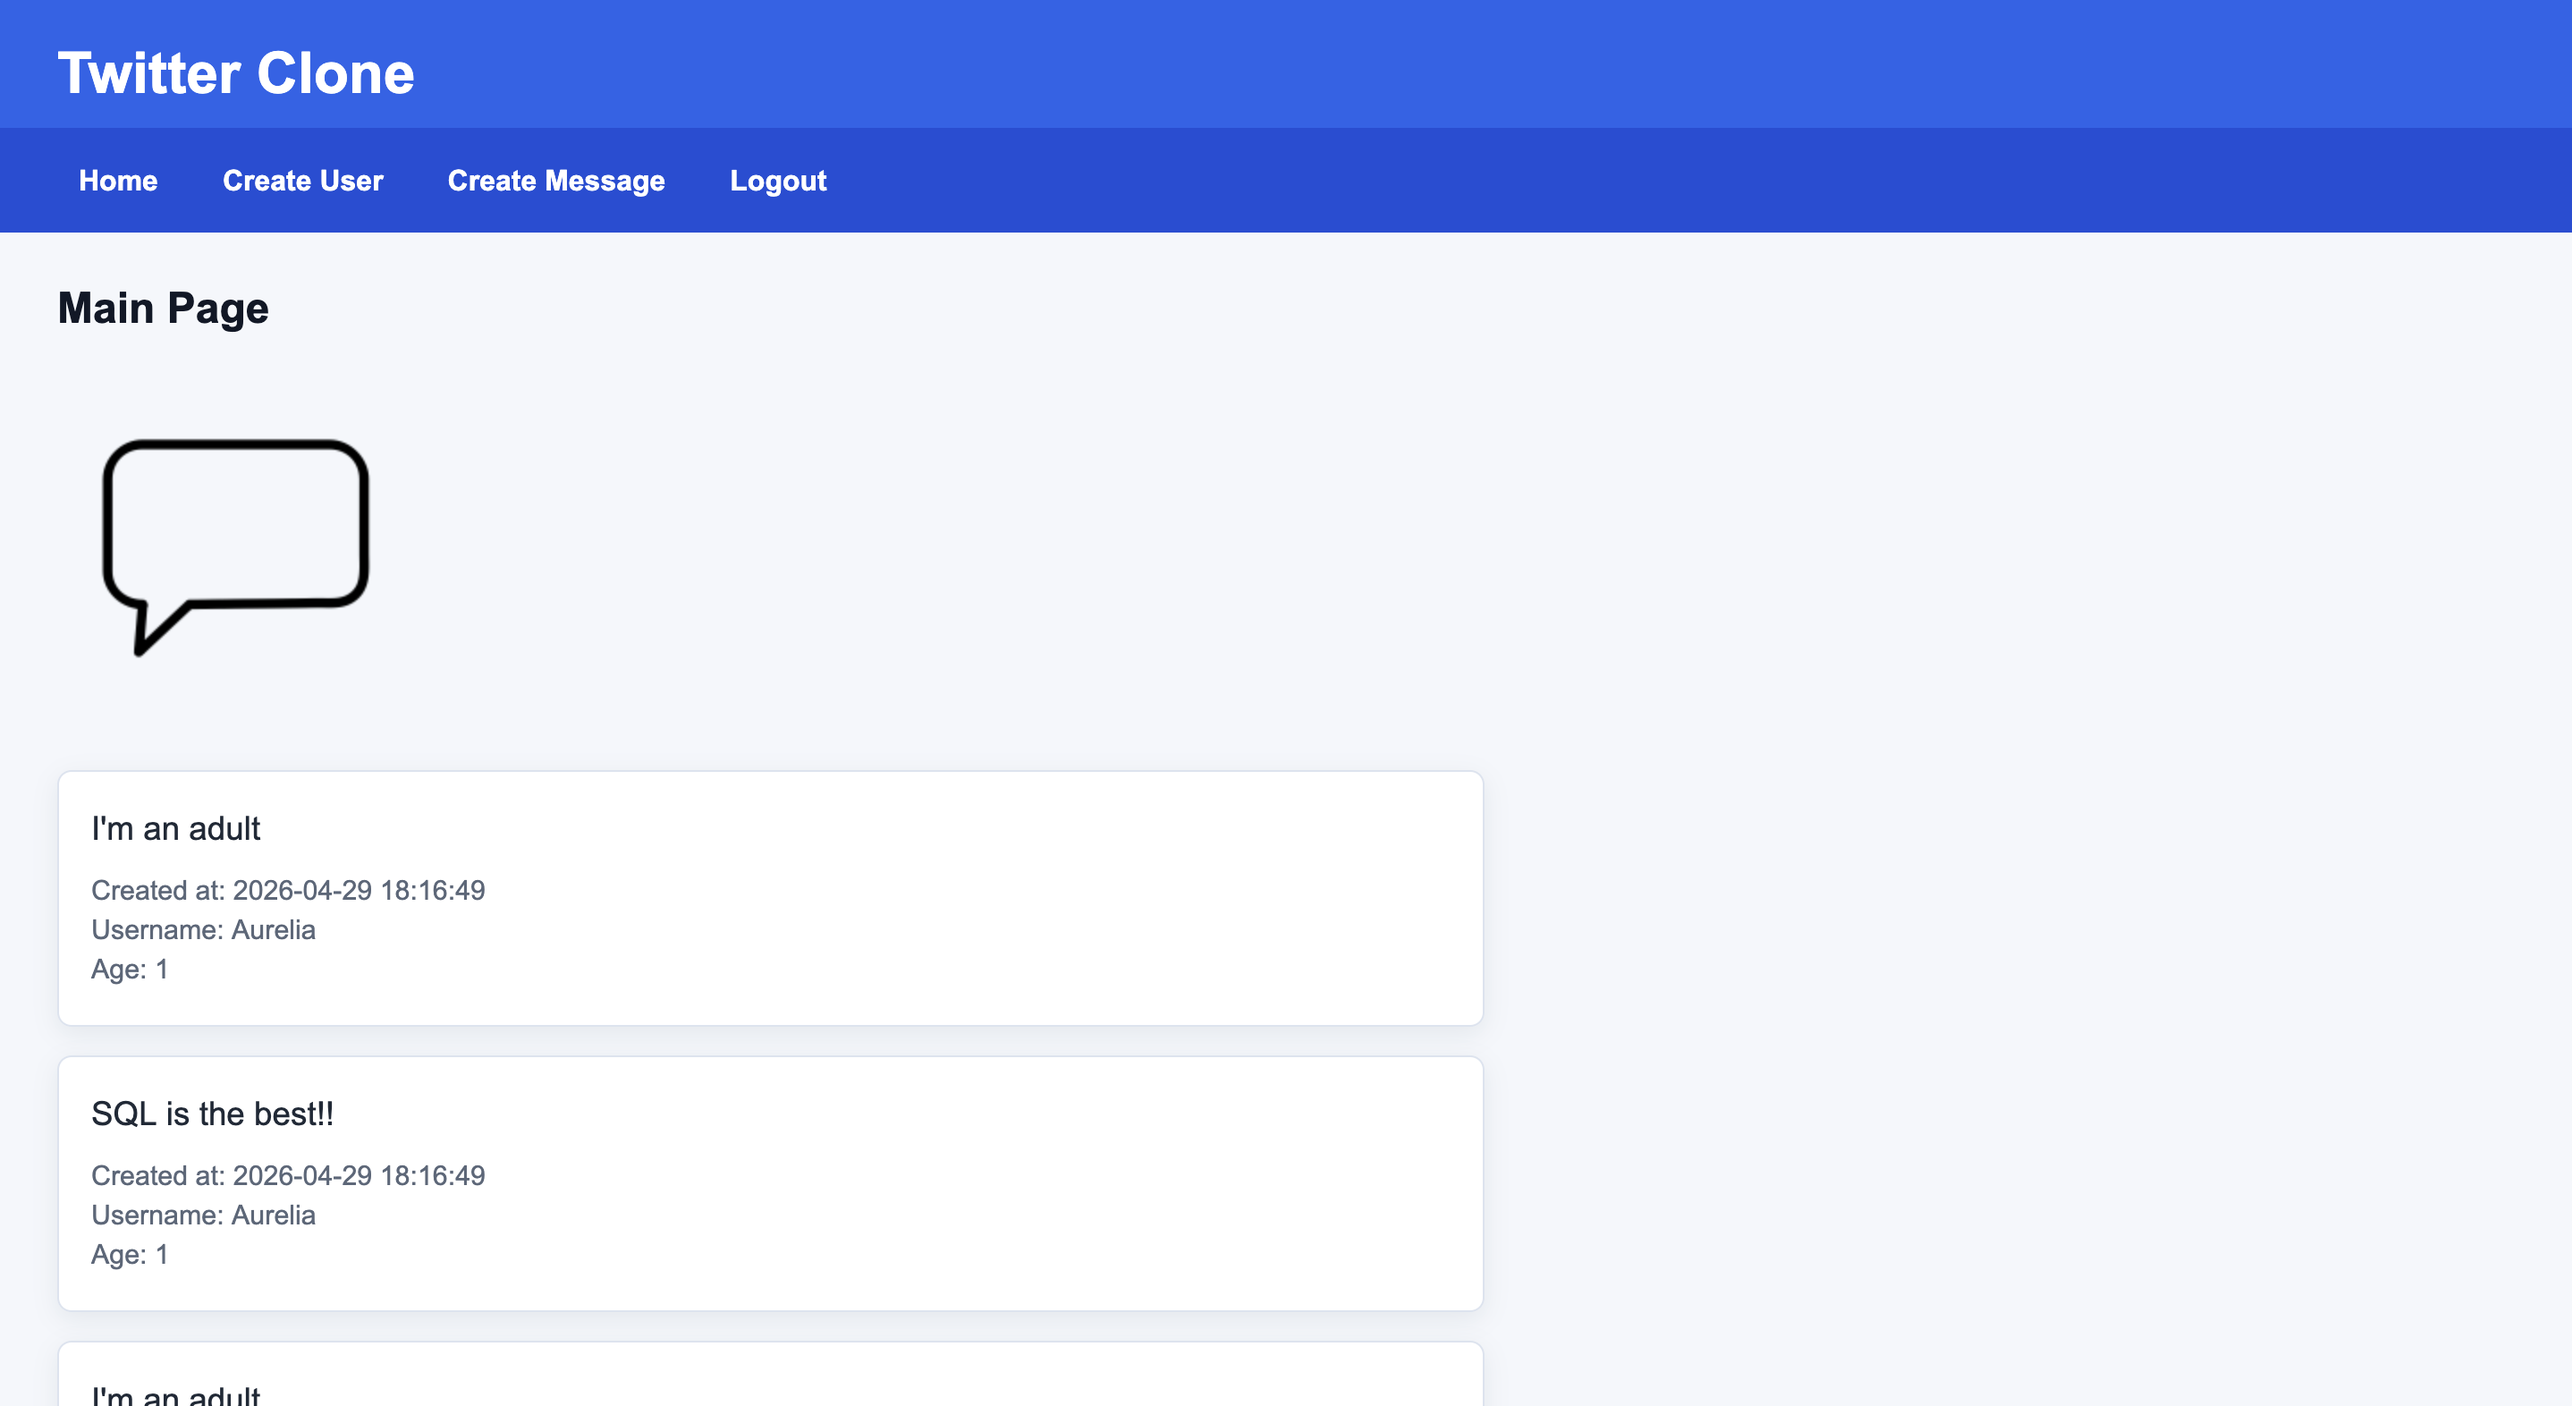
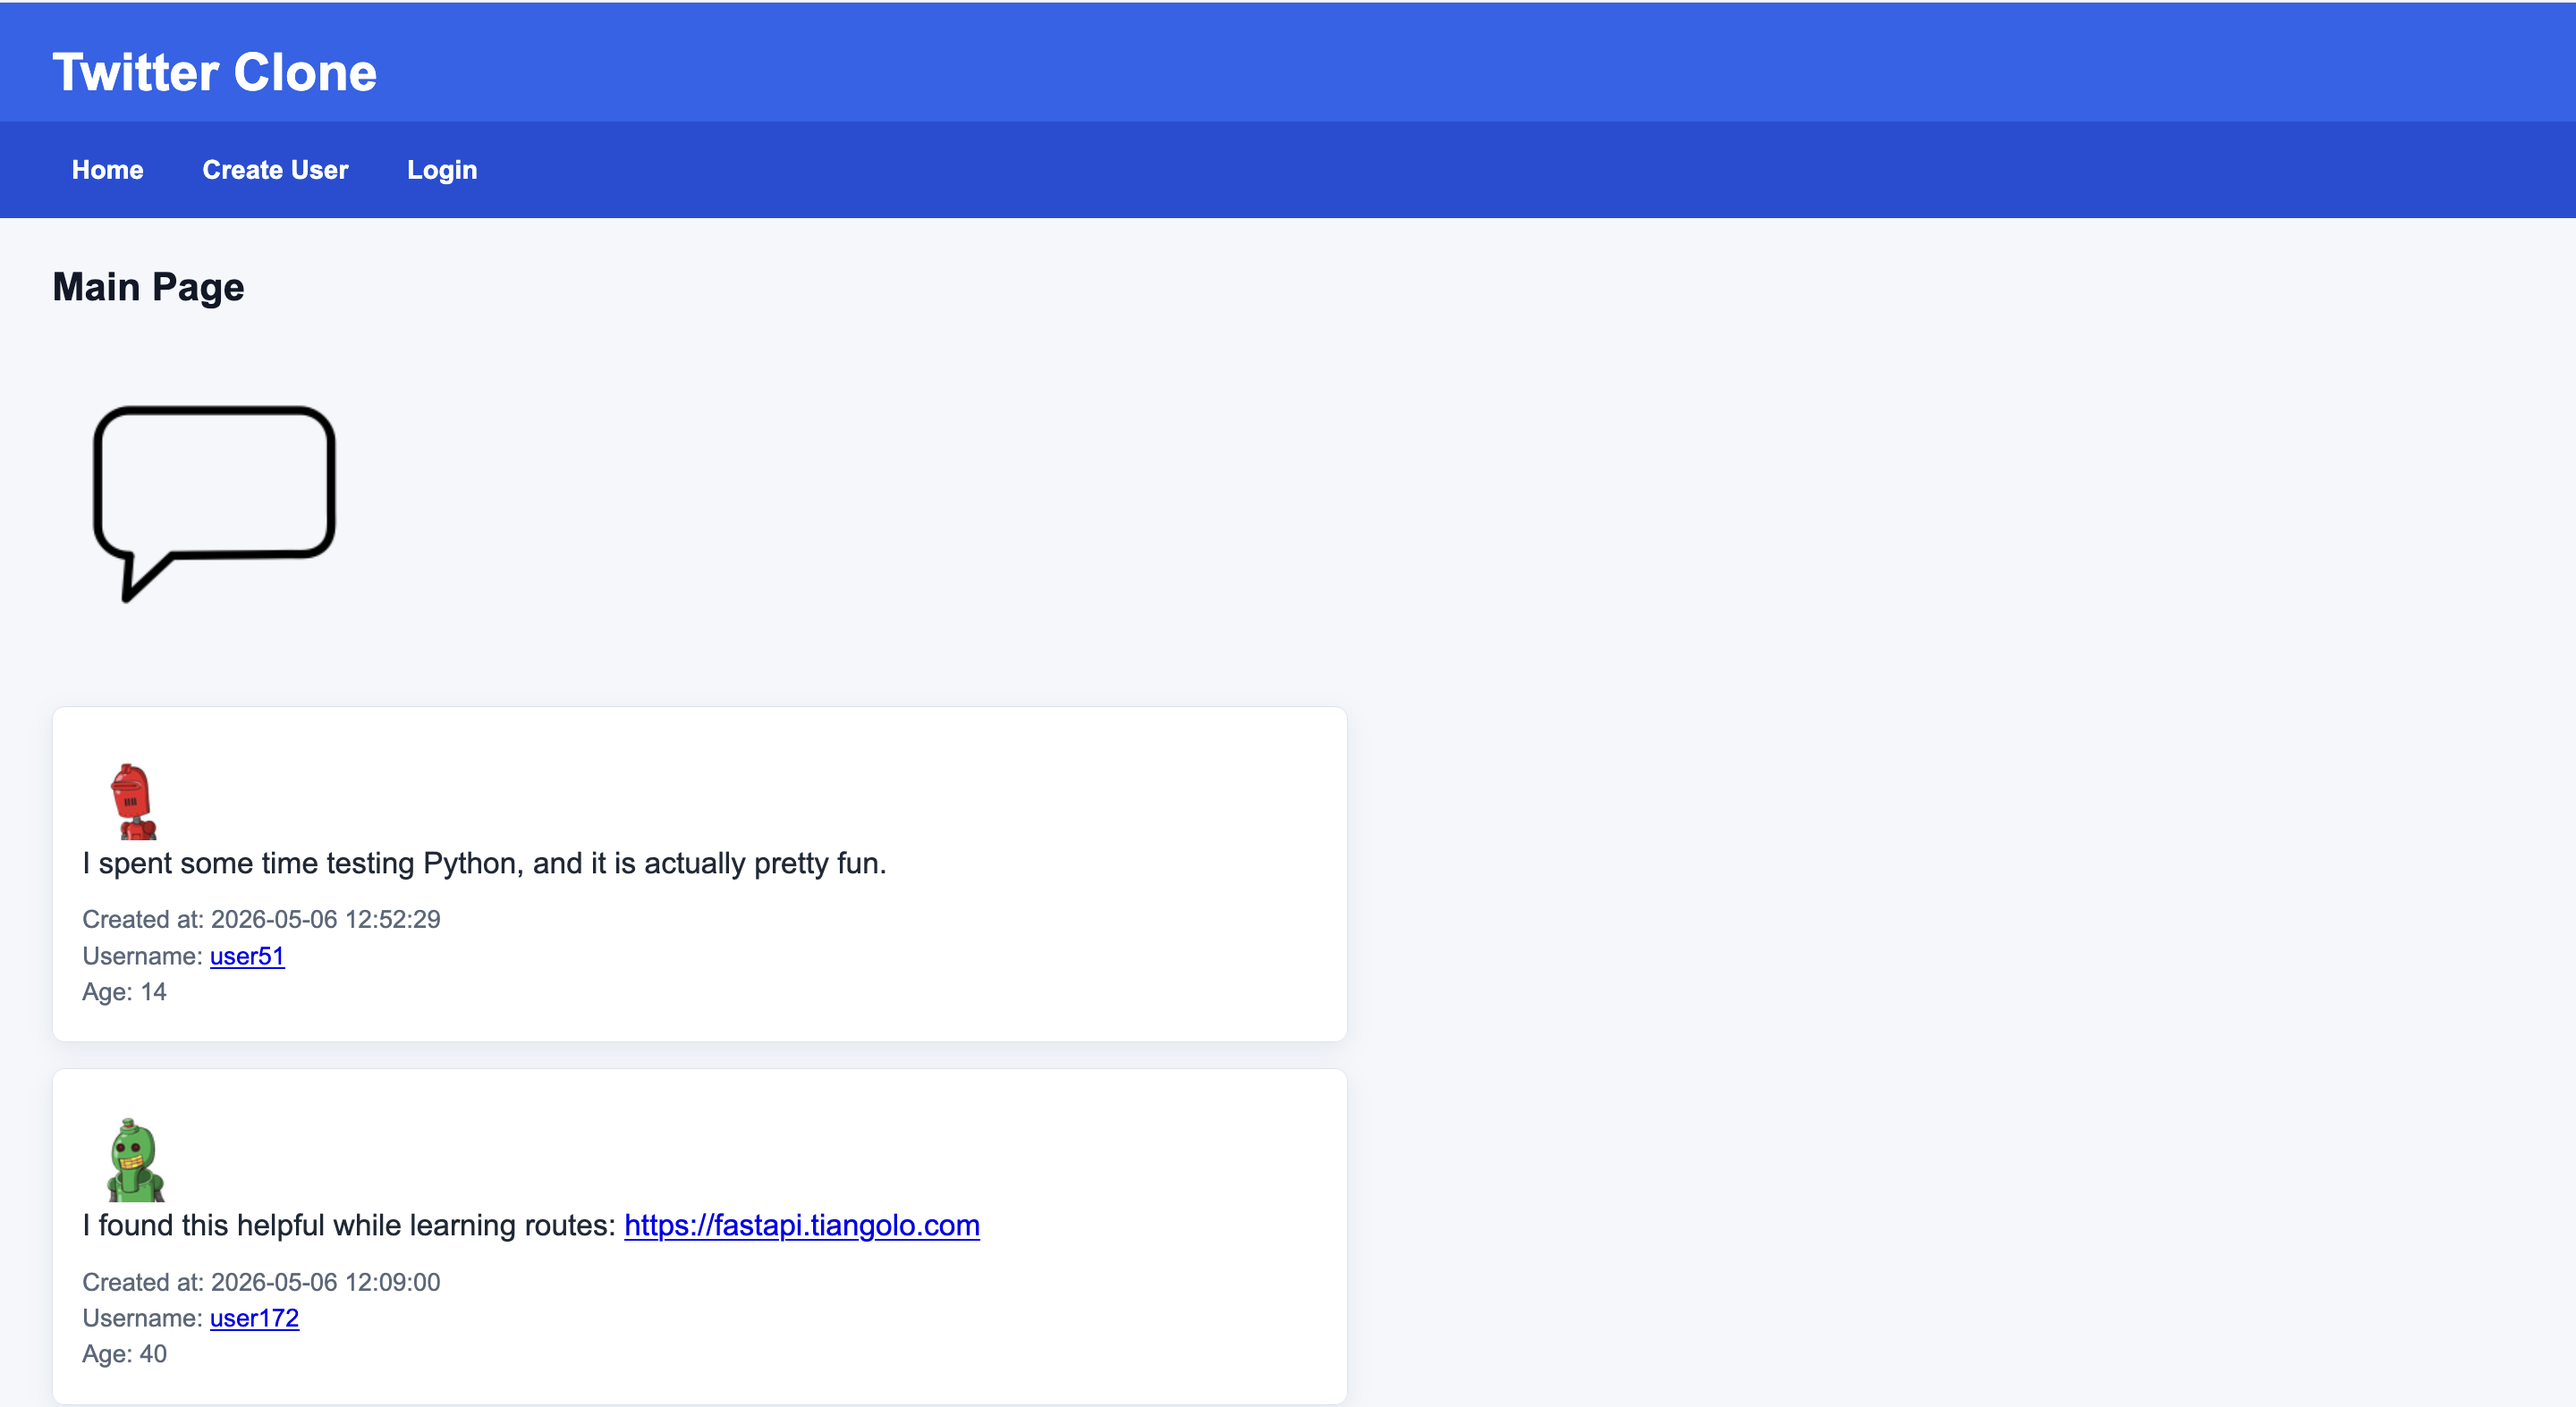
update readme

diff --git a/README.md b/README.md
@@ -1,6 +1,12 @@
 # Twitter Clone
 
-Twitter Clone functions similarly to Twitter (now X). The home page displays messages, beginning with the newest, from different users with its timestamp, author, and the author's age.
+Twitter Clone functions similarly to Twitter (now X). The home page displays a feed of messages, beginning with the newest, and includes user avatars, age, and time the message was created.
+
+## Features
+
+- Create accounts, log in, log out, change passwords, and edit profile descriptions
+- Create, edit, delete, and reply to messages
+- View message data through a JSON endpoint
 
 ## How to Run
 
